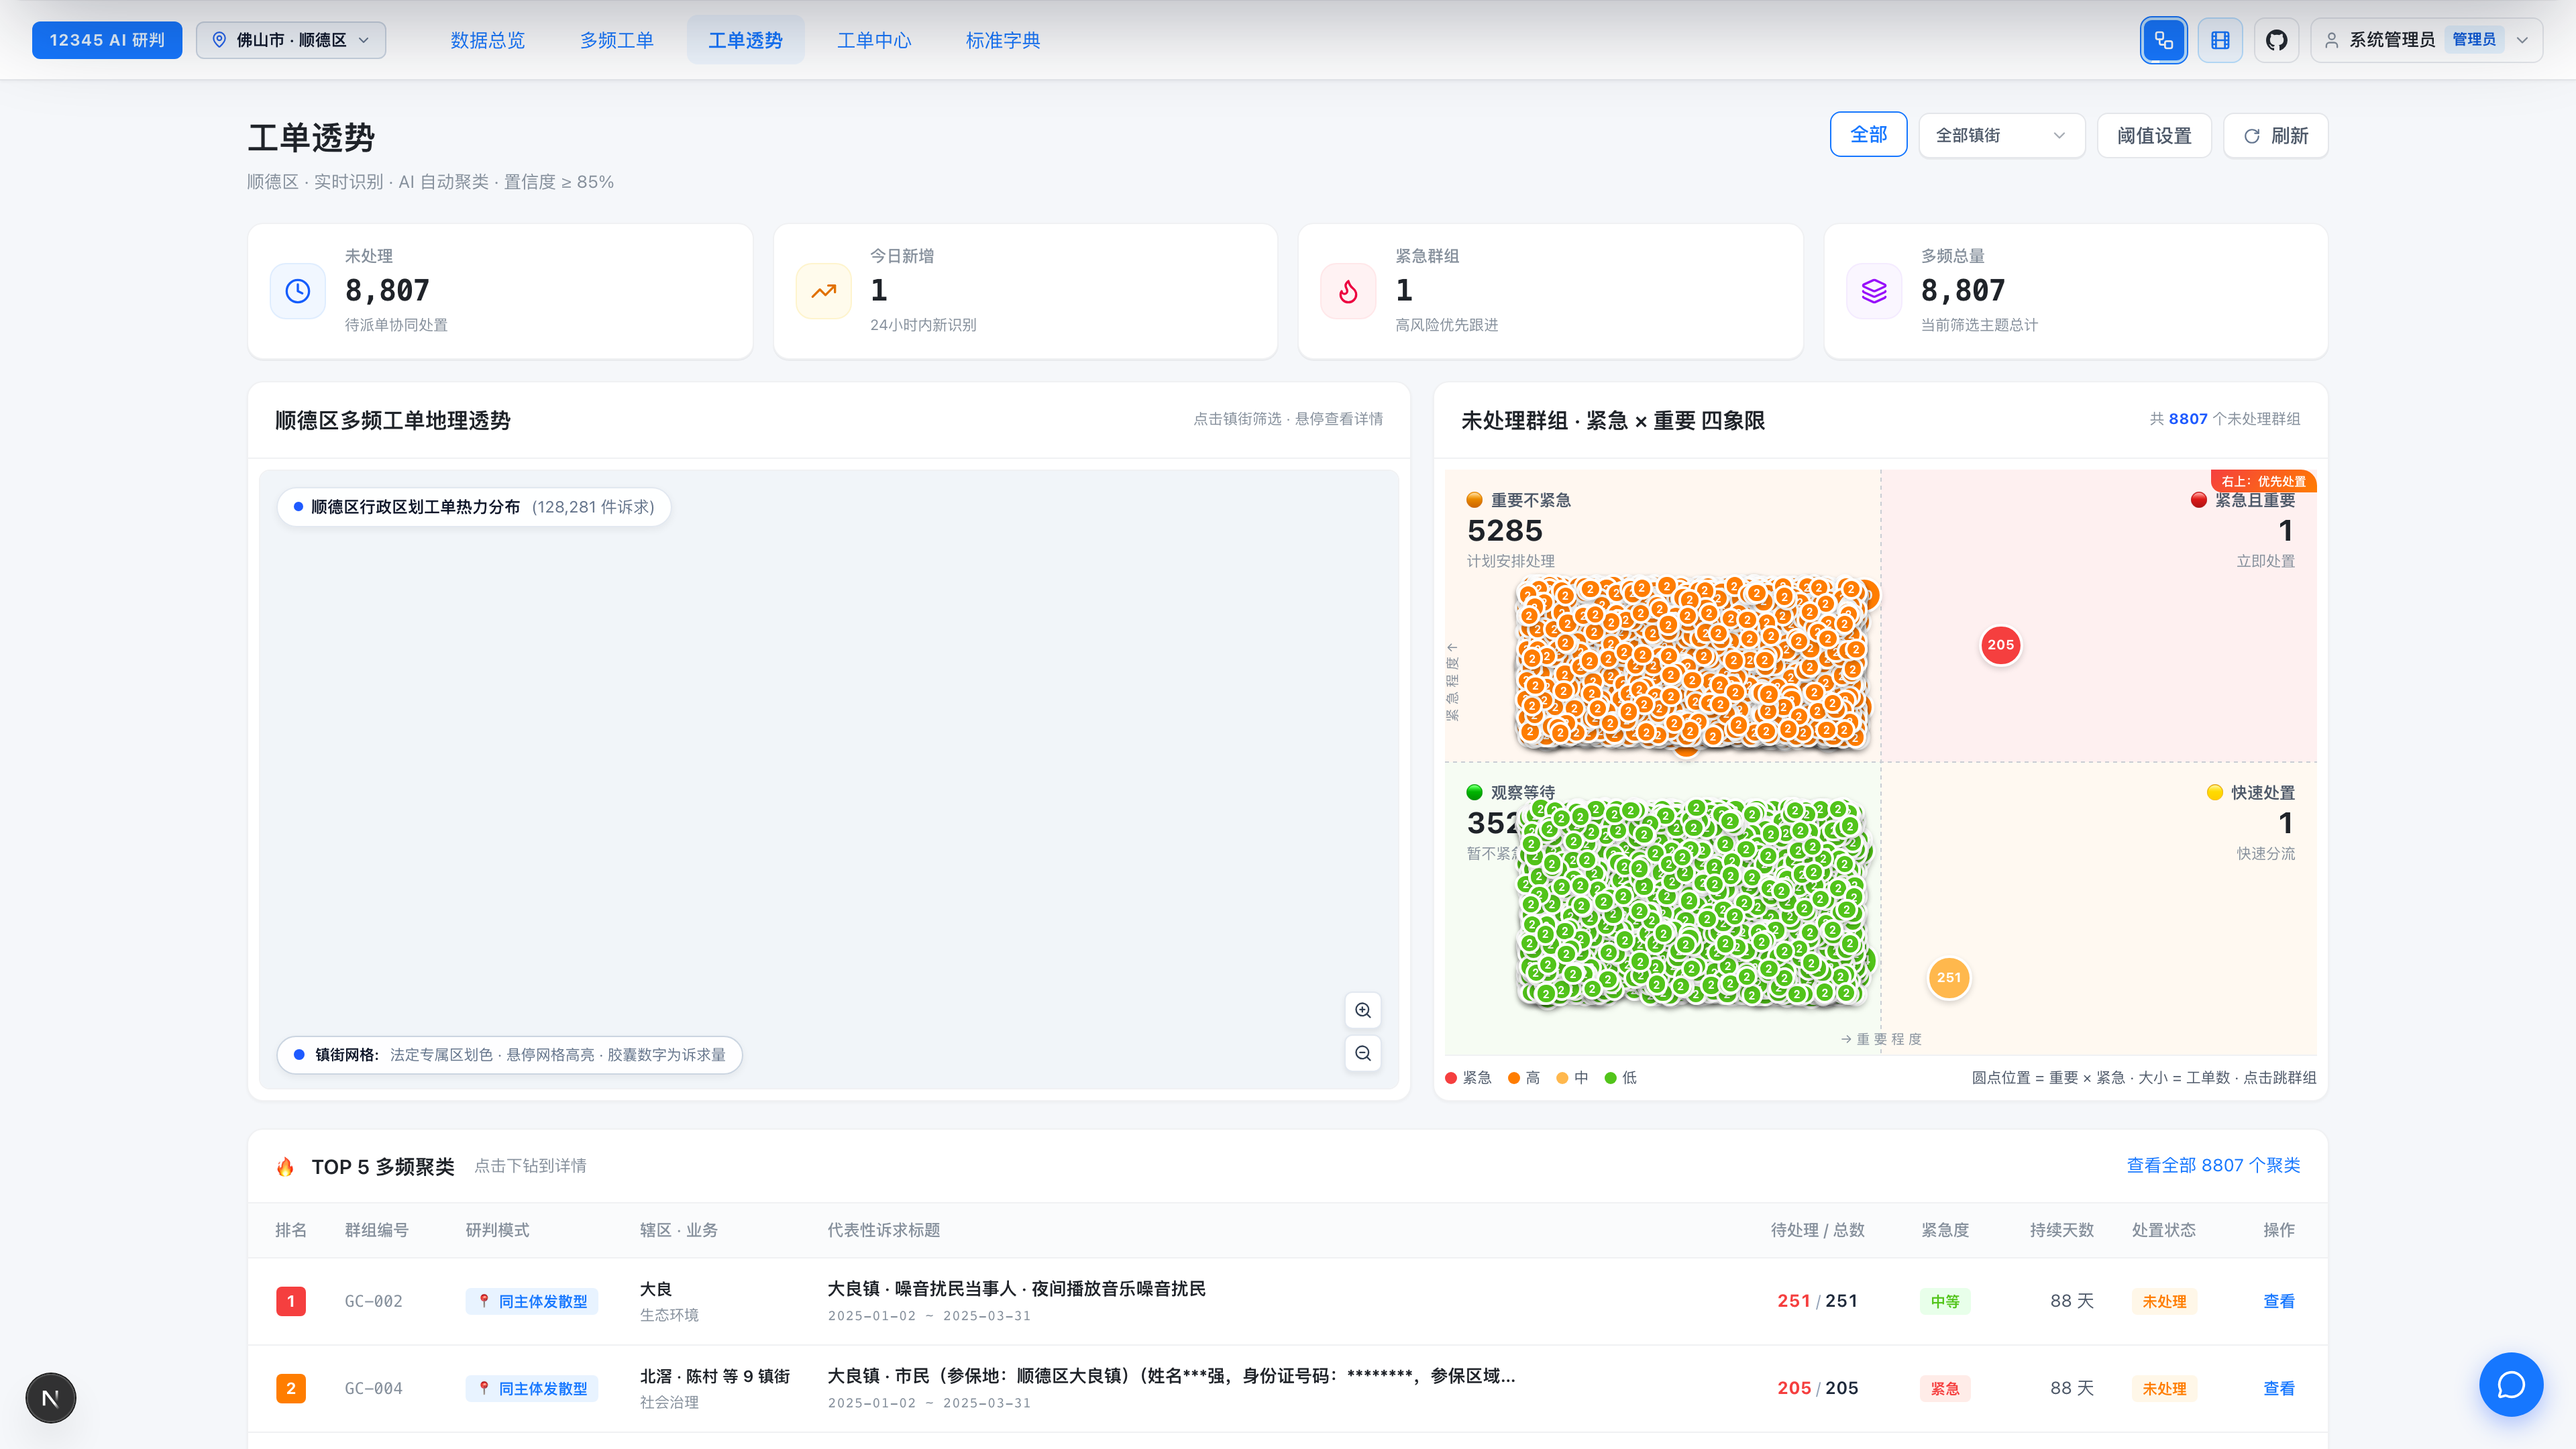
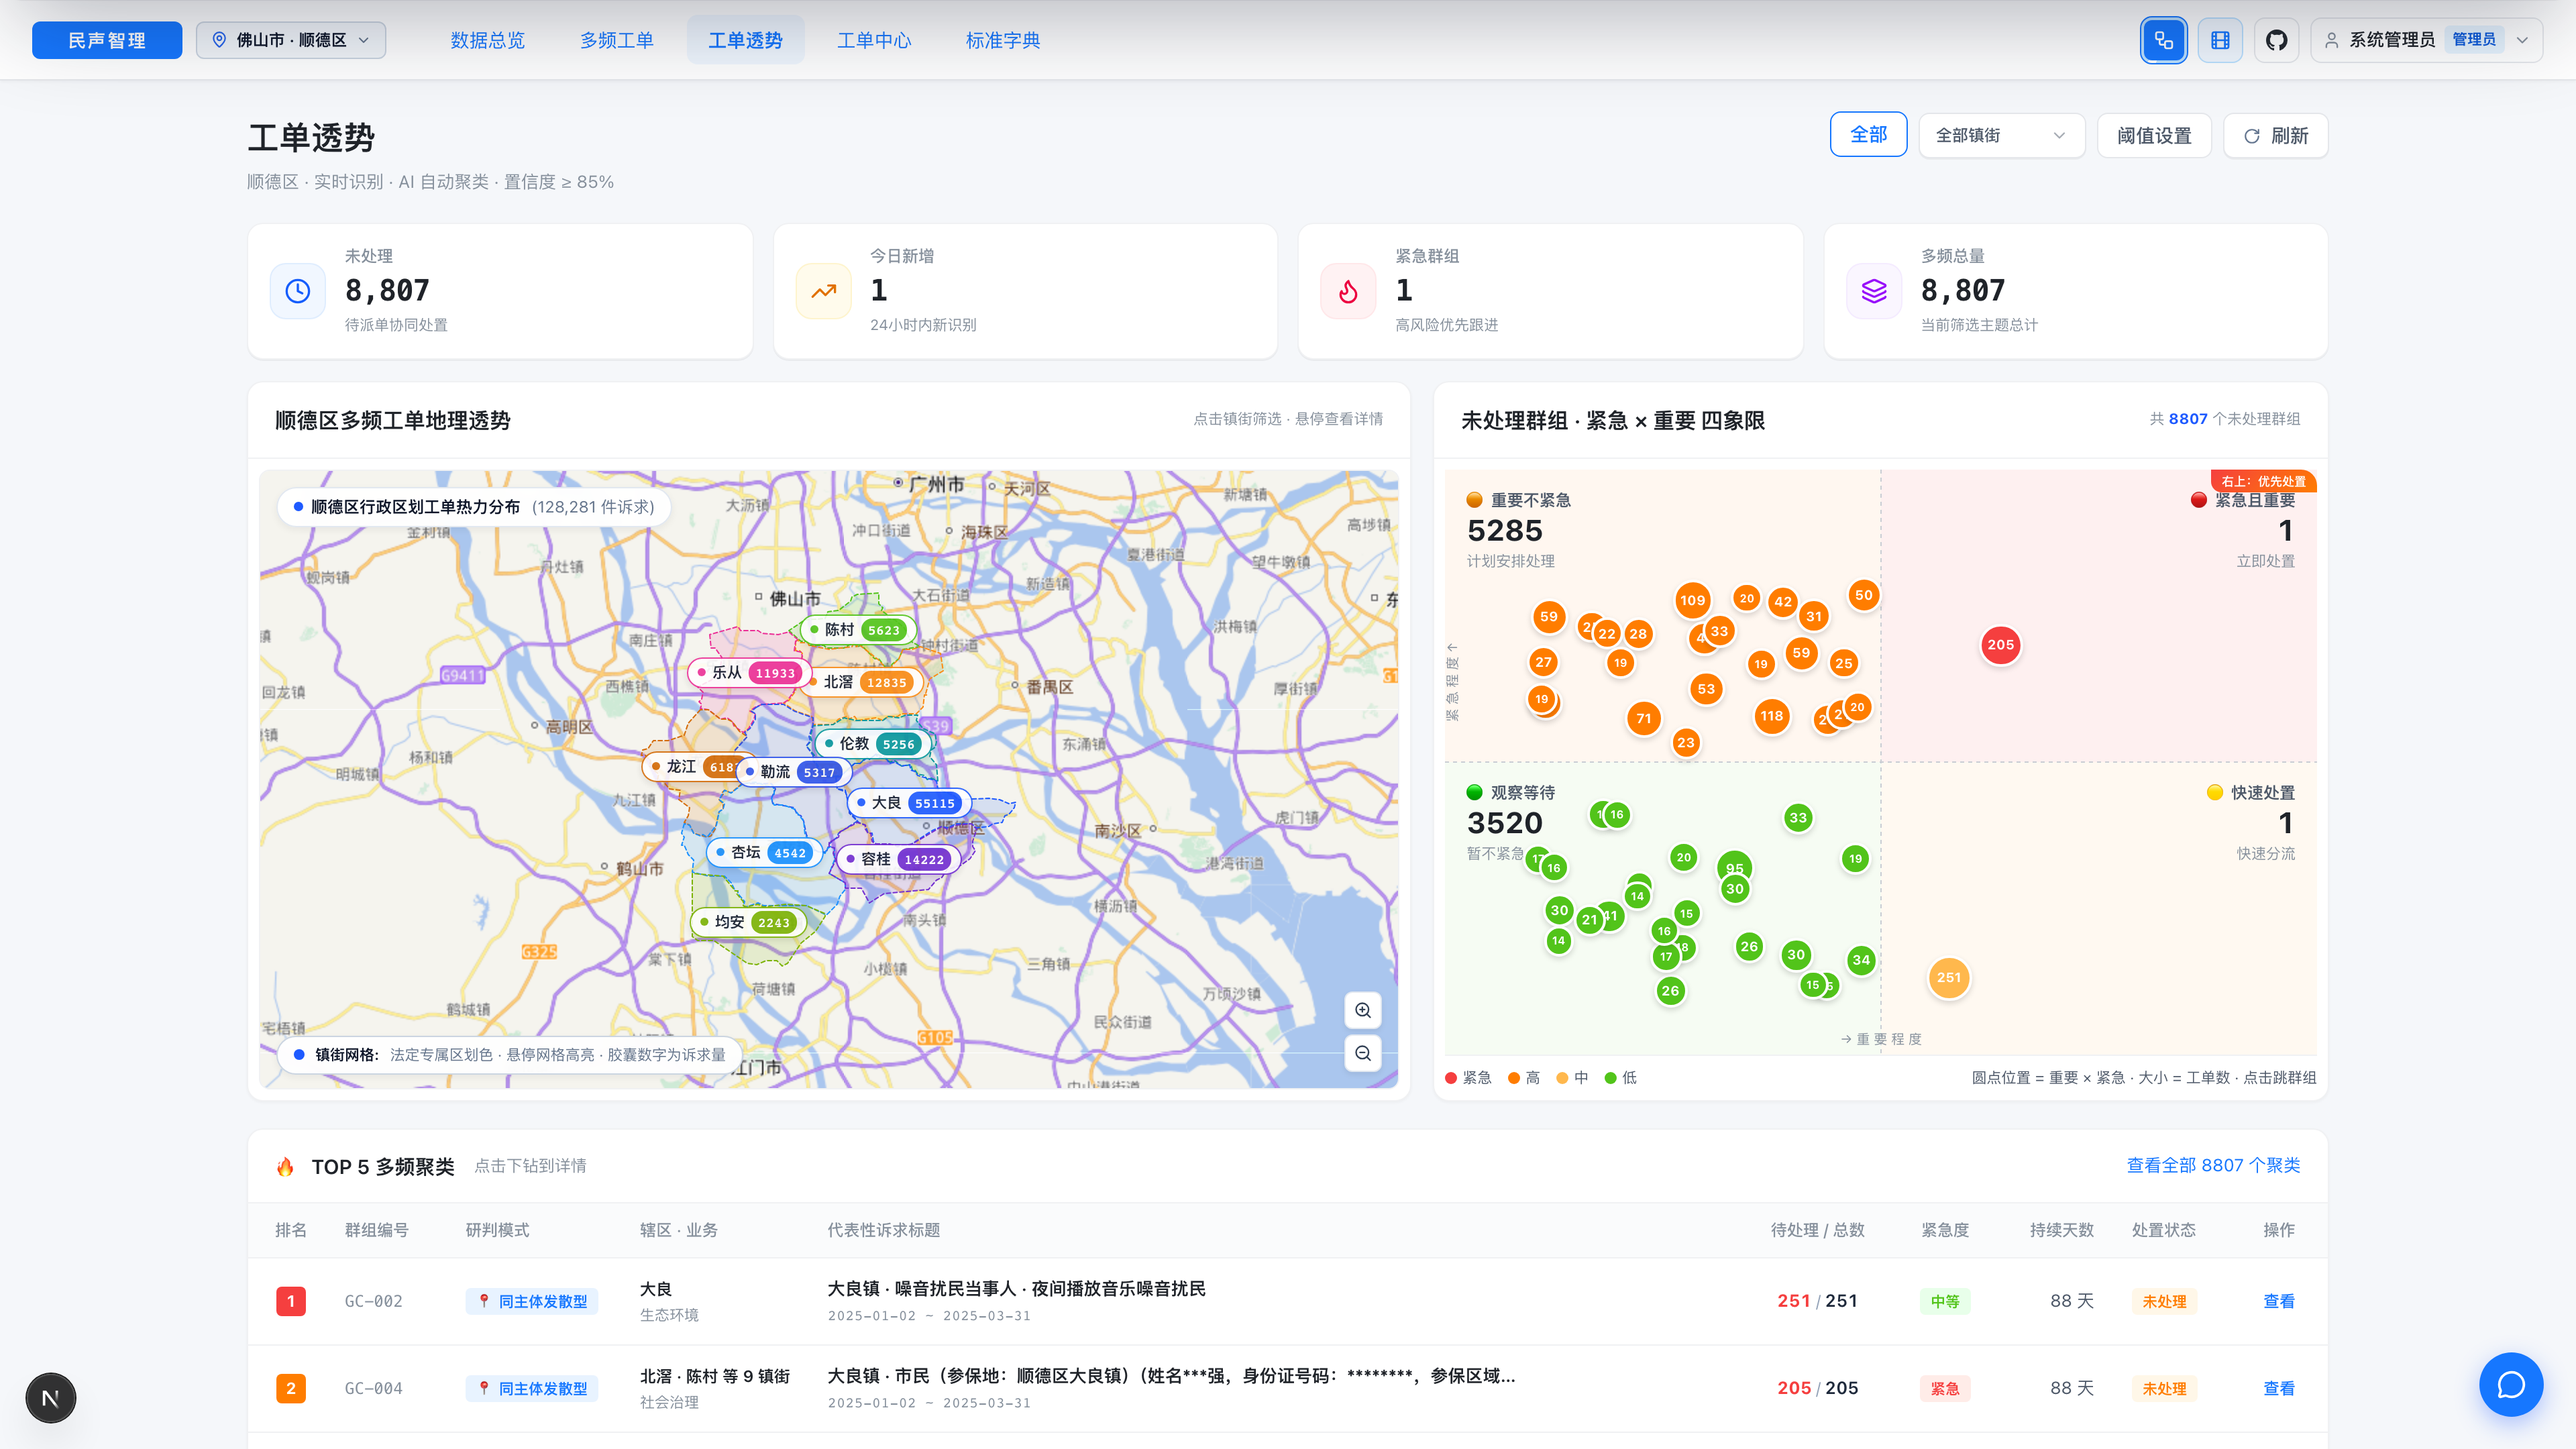
fix(screenshots): 重构四象限点位采样优化与天河大屏自适应居中，重新捕获 02与09 超清截图

Changed region(s): [[0.0938, 0.3102, 0.75, 0.7755], [0.0312, 0.0, 0.0625, 0.031]]

diff --git a/app/_components/civic/quadrant.tsx b/app/_components/civic/quadrant.tsx
@@ -1,5 +1,6 @@
 "use client";
 
+import React, { useMemo } from "react";
 import { useRouter } from "next/navigation";
 import type { ClusterUrgency } from "@/lib/civic-cluster";
 
@@ -55,12 +56,28 @@ export function QuadrantBoard({ clusters }: { clusters: QuadCluster[] }) {
   const router = useRouter();
   const pending = clusters.filter((c) => ((c.status as any)?.code || "PENDING") !== "RESOLVED");
 
-  // Per-quadrant counts for the corner labels
+  // 各象限真实总数（宏观角标忠实统计）
   const grouped: Record<Q, number> = { tl: 0, tr: 0, bl: 0, br: 0 };
   pending.forEach((c) => { grouped[quadKey(c)] += 1; });
 
+  // 散点图可视化：保留各象限最具代表性、工单量最高的重点聚类（保证图表优雅高质感，避免数千 DOM 挤压重叠与主线程卡顿）
+  const displayPending = useMemo(() => {
+    if (pending.length <= 100) return pending;
+    const byQ: Record<Q, QuadCluster[]> = { tl: [], tr: [], bl: [], br: [] };
+    for (const c of pending) {
+      byQ[quadKey(c)].push(c);
+    }
+    const result: QuadCluster[] = [];
+    (Object.keys(byQ) as Q[]).forEach((q) => {
+      // 优先按工单量从大到小排序，精选 Top 25
+      const sorted = byQ[q].sort((a, b) => (b.count || 0) - (a.count || 0));
+      result.push(...sorted.slice(0, 25));
+    });
+    return result;
+  }, [pending]);
+
   type Dot = { c: QuadCluster; left: number; top: number; size: number; cls: string };
-  const dots: Dot[] = pending.map((c) => {
+  const dots: Dot[] = displayPending.map((c) => {
     const q = quadKey(c);
     const box = QBOX[q];
     // Pseudo-random scatter inside the quadrant's inner box.

diff --git a/app/screen/page.tsx b/app/screen/page.tsx
@@ -1,11 +1,29 @@
 "use client";
 
-import React from "react";
-import { useRouter } from "next/navigation";
+import React, { useEffect, Suspense } from "react";
+import { useRouter, useSearchParams } from "next/navigation";
 import { CockpitView } from "@/app/_components/cockpit/cockpit-view";
+import { useRegion } from "@/app/_components/civic/region-context";
 
-export default function BigScreenPage() {
+function ScreenInner() {
   const router = useRouter();
+  const searchParams = useSearchParams();
+  const { switchRegion, activeRegion } = useRegion();
+  const regionParam = searchParams.get("region");
+
+  useEffect(() => {
+    if (regionParam && activeRegion?.id !== regionParam) {
+      switchRegion(regionParam);
+    }
+  }, [regionParam, activeRegion?.id, switchRegion]);
 
   return <CockpitView onClose={() => router.push("/")} />;
+}
+
+export default function BigScreenPage() {
+  return (
+    <Suspense fallback={<div className="w-screen h-screen bg-[#020612]" />}>
+      <ScreenInner />
+    </Suspense>
+  );
 }

diff --git a/app/multifreq/page.tsx b/app/multifreq/page.tsx
@@ -197,7 +197,7 @@ function MultifreqInner() {
           </div>
         </div>
         <PageHeaderActions onRefresh={load}>
-          <button type="button" className="btn btn--default h-[34px] px-3 text-xs font-medium" onClick={cycleTime}>
+          <button id="cycle-time-btn" type="button" className="btn btn--default h-[34px] px-3 text-xs font-medium" onClick={cycleTime}>
             {timeLabel}
           </button>
           <Select

diff --git a/app/_components/cockpit/cockpit-map.tsx b/app/_components/cockpit/cockpit-map.tsx
@@ -113,7 +113,10 @@ export function CockpitMap({
         zoomAnimation: true,
         fadeAnimation: true,
         markerZoomAnimation: true,
-      }).setView([22.84, 113.25], 11);
+      }).setView(
+        regionId.includes("tianhe") || regionId.includes("gz") ? [23.14, 113.36] : [22.84, 113.25],
+        regionId.includes("tianhe") || regionId.includes("gz") ? 12 : 11
+      );
 
       const tileOptions = {
         maxZoom: 18,

diff --git a/app/_components/civic/civic-map.tsx b/app/_components/civic/civic-map.tsx
@@ -289,6 +289,12 @@ export function CivicMap({
           map.fitBounds(bounds, { padding: [24, 24], maxZoom: 13 });
         }
       } catch (e) {}
+
+      setTimeout(() => {
+        if (mapRef.current) {
+          mapRef.current.invalidateSize();
+        }
+      }, 100);
     });
 
     return () => {
